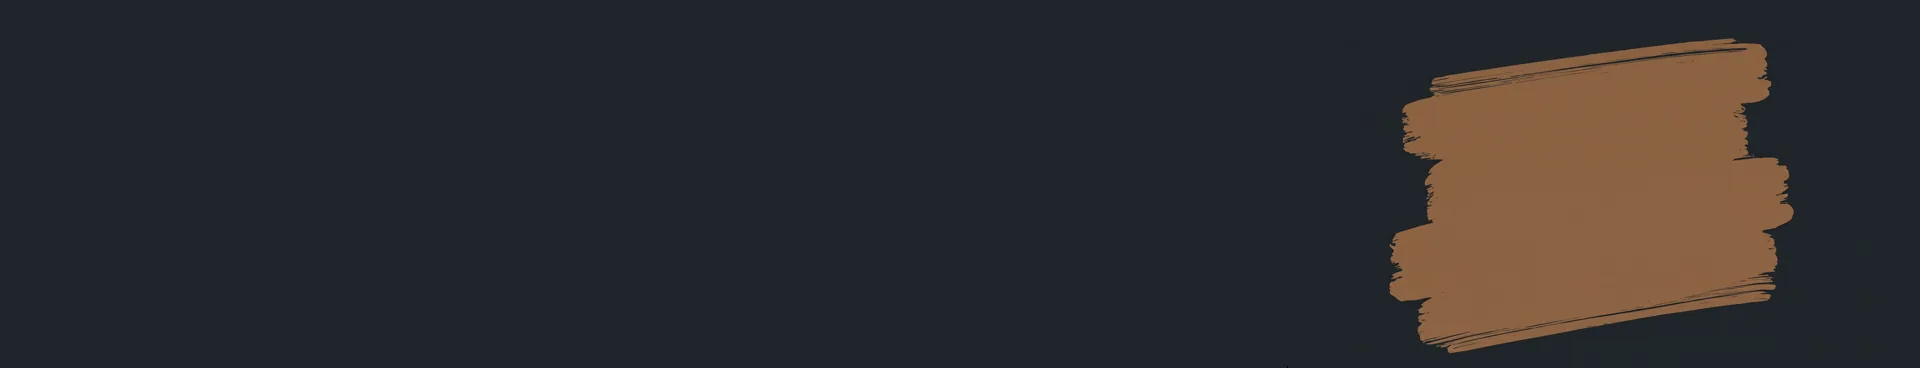
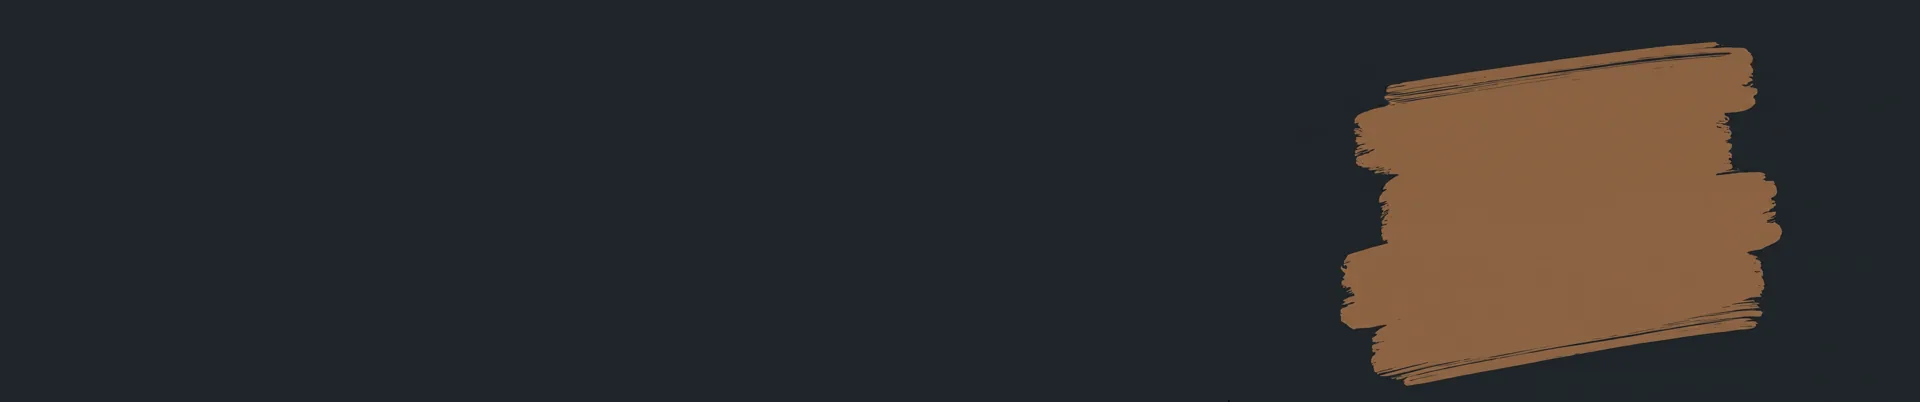
tweak(problema-lojas): sessao-lojas atualizada + overlay quase transparente
- Foto sessao-lojas.png atualizada (nova versao do cliente) reoptimizada
  pra webp
- Overlay linear-gradient reduzido drasticamente: 92%/88% -> 25%/15% escuro
  Foto agora aparece quase totalmente visivel, dando apenas leve escurecimento
  pra manter o texto branco/laranja legivel por cima

Changed region(s): [[0.6875, 0.0897, 0.9375, 0.9565]]

diff --git a/index.html b/index.html
@@ -115,7 +115,7 @@ section[id]{scroll-margin-top:100px}
 .hero__hand p{font-family:'Caveat',cursive;font-size:30px;font-weight:700;line-height:1.1;color:#fff;text-align:center;text-shadow:0 3px 18px rgba(0,0,0,0.6),0 1px 3px rgba(0,0,0,0.5)}
 
 /* PROBLEMA — foto sessao-lojas como bg com overlay escuro pra legibilidade */
-.problem{background-color:var(--night);background-image:linear-gradient(135deg,rgba(20,25,36,0.92) 0%,rgba(29,36,50,0.88) 100%),url('assets/sessao-lojas.webp');background-size:cover;background-position:center;background-repeat:no-repeat;color:#fff;padding:88px 32px;position:relative;overflow:hidden}
+.problem{background-color:var(--night);background-image:linear-gradient(135deg,rgba(20,25,36,0.25) 0%,rgba(29,36,50,0.15) 100%),url('assets/sessao-lojas.webp');background-size:cover;background-position:center;background-repeat:no-repeat;color:#fff;padding:88px 32px;position:relative;overflow:hidden}
 .problem__inner{max-width:1360px;margin:0 auto;display:grid;grid-template-columns:minmax(0,1.1fr) minmax(0,1fr) minmax(0,0.75fr);gap:44px;align-items:center}
 .problem .eyebrow{color:var(--brand-light)}
 .problem__h2{font-size:clamp(28px,2.8vw,40px);font-weight:800;line-height:1.1;letter-spacing:-0.015em;color:#fff;text-wrap:balance;margin-bottom:22px}
